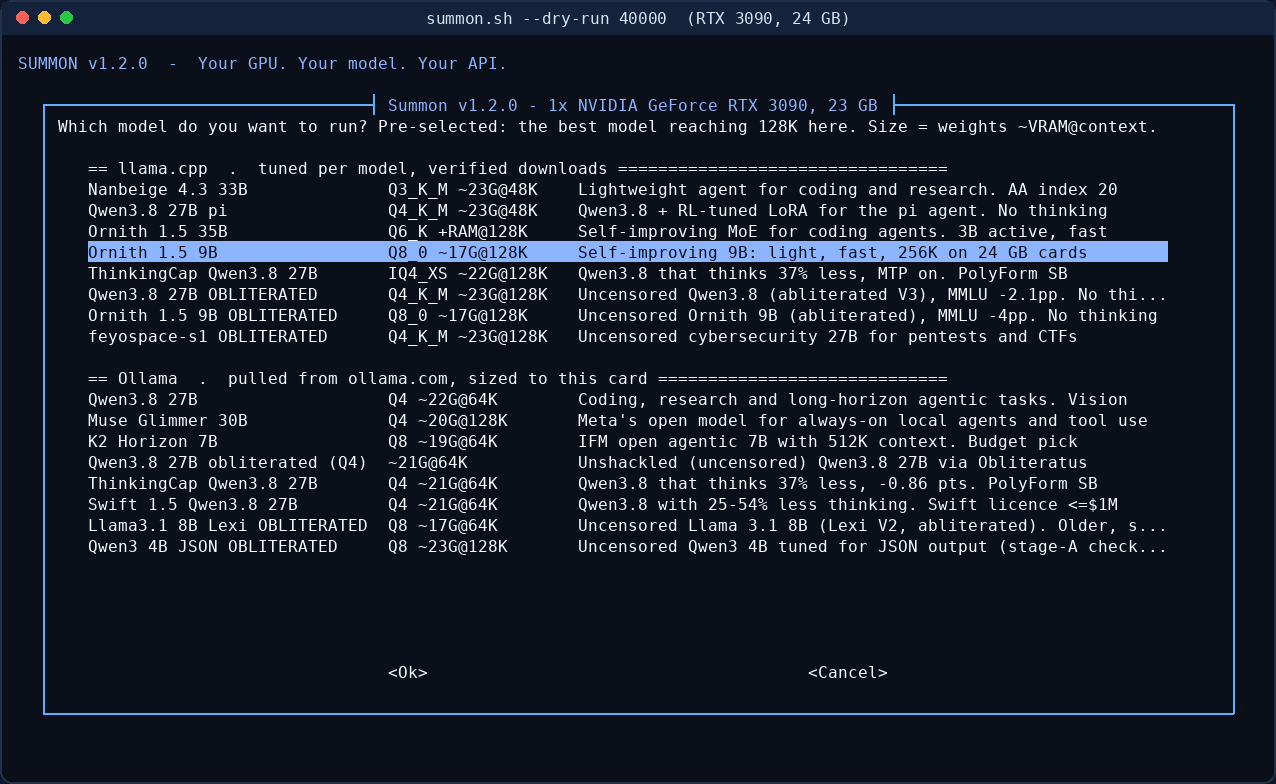
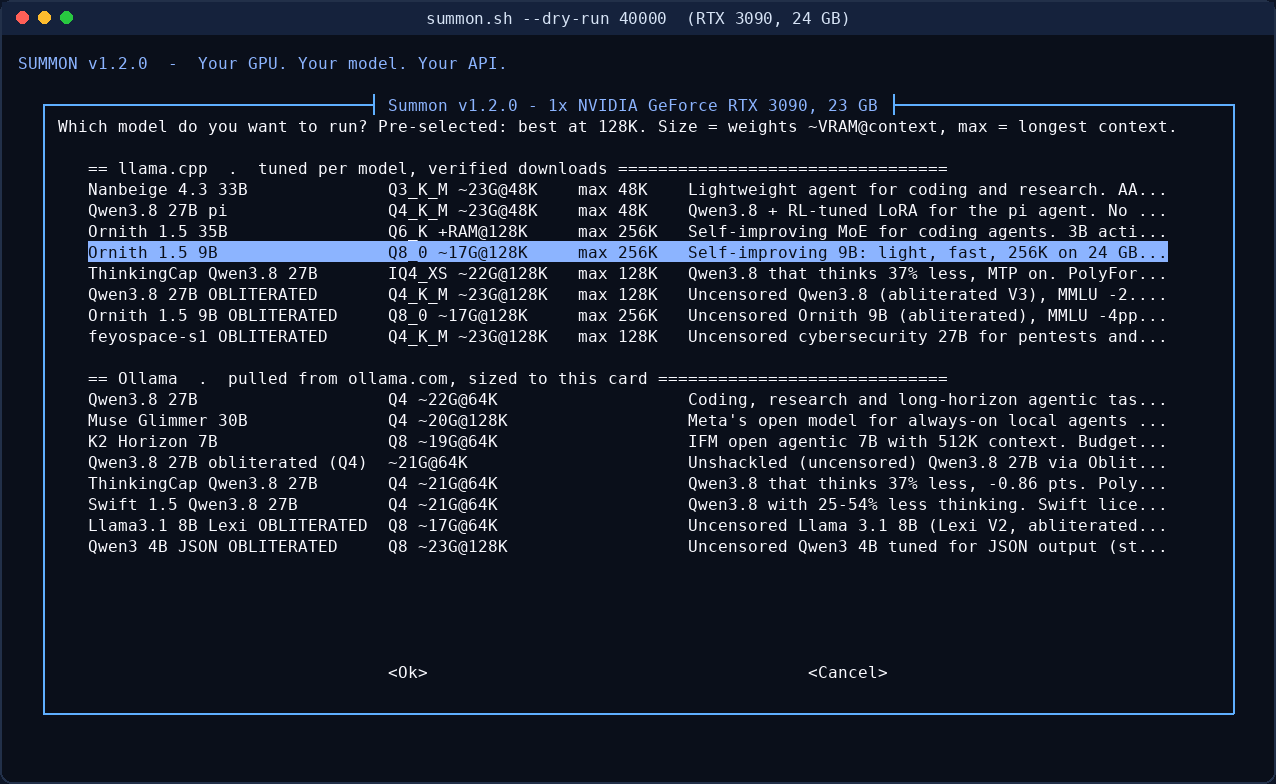
Model menu: show each model's longest context on this machine (max 384K); screenshots regenerated

Changed region(s): [[0.4585, 0.2143, 0.9169, 0.4592], [0.4585, 0.4898, 0.8864, 0.7041], [0.3973, 0.1531, 0.9169, 0.1837]]

diff --git a/CHANGELOG.md b/CHANGELOG.md
@@ -2,6 +2,7 @@
 
 ## Unreleased
 
+- **Model menu shows each model's longest context** on this machine (`max 384K`), so contexts past 128K are visible before the context step.
 - **Just go:** `./summon.sh --auto` (or `GO=1`) asks nothing: the recommended model, context and weights for the machine, port 20001.
 - **`./summon.sh status`:** engine, model, context, port, health, last decode speed, HTTPS URL and GPU memory in one screen.
 - **Ollama survives reboots:** it runs as the `summon-ollama` systemd service (starts on boot, re-applies the IP lock). No systemd (many pod containers): the old `screen` session, and Summon says so.
